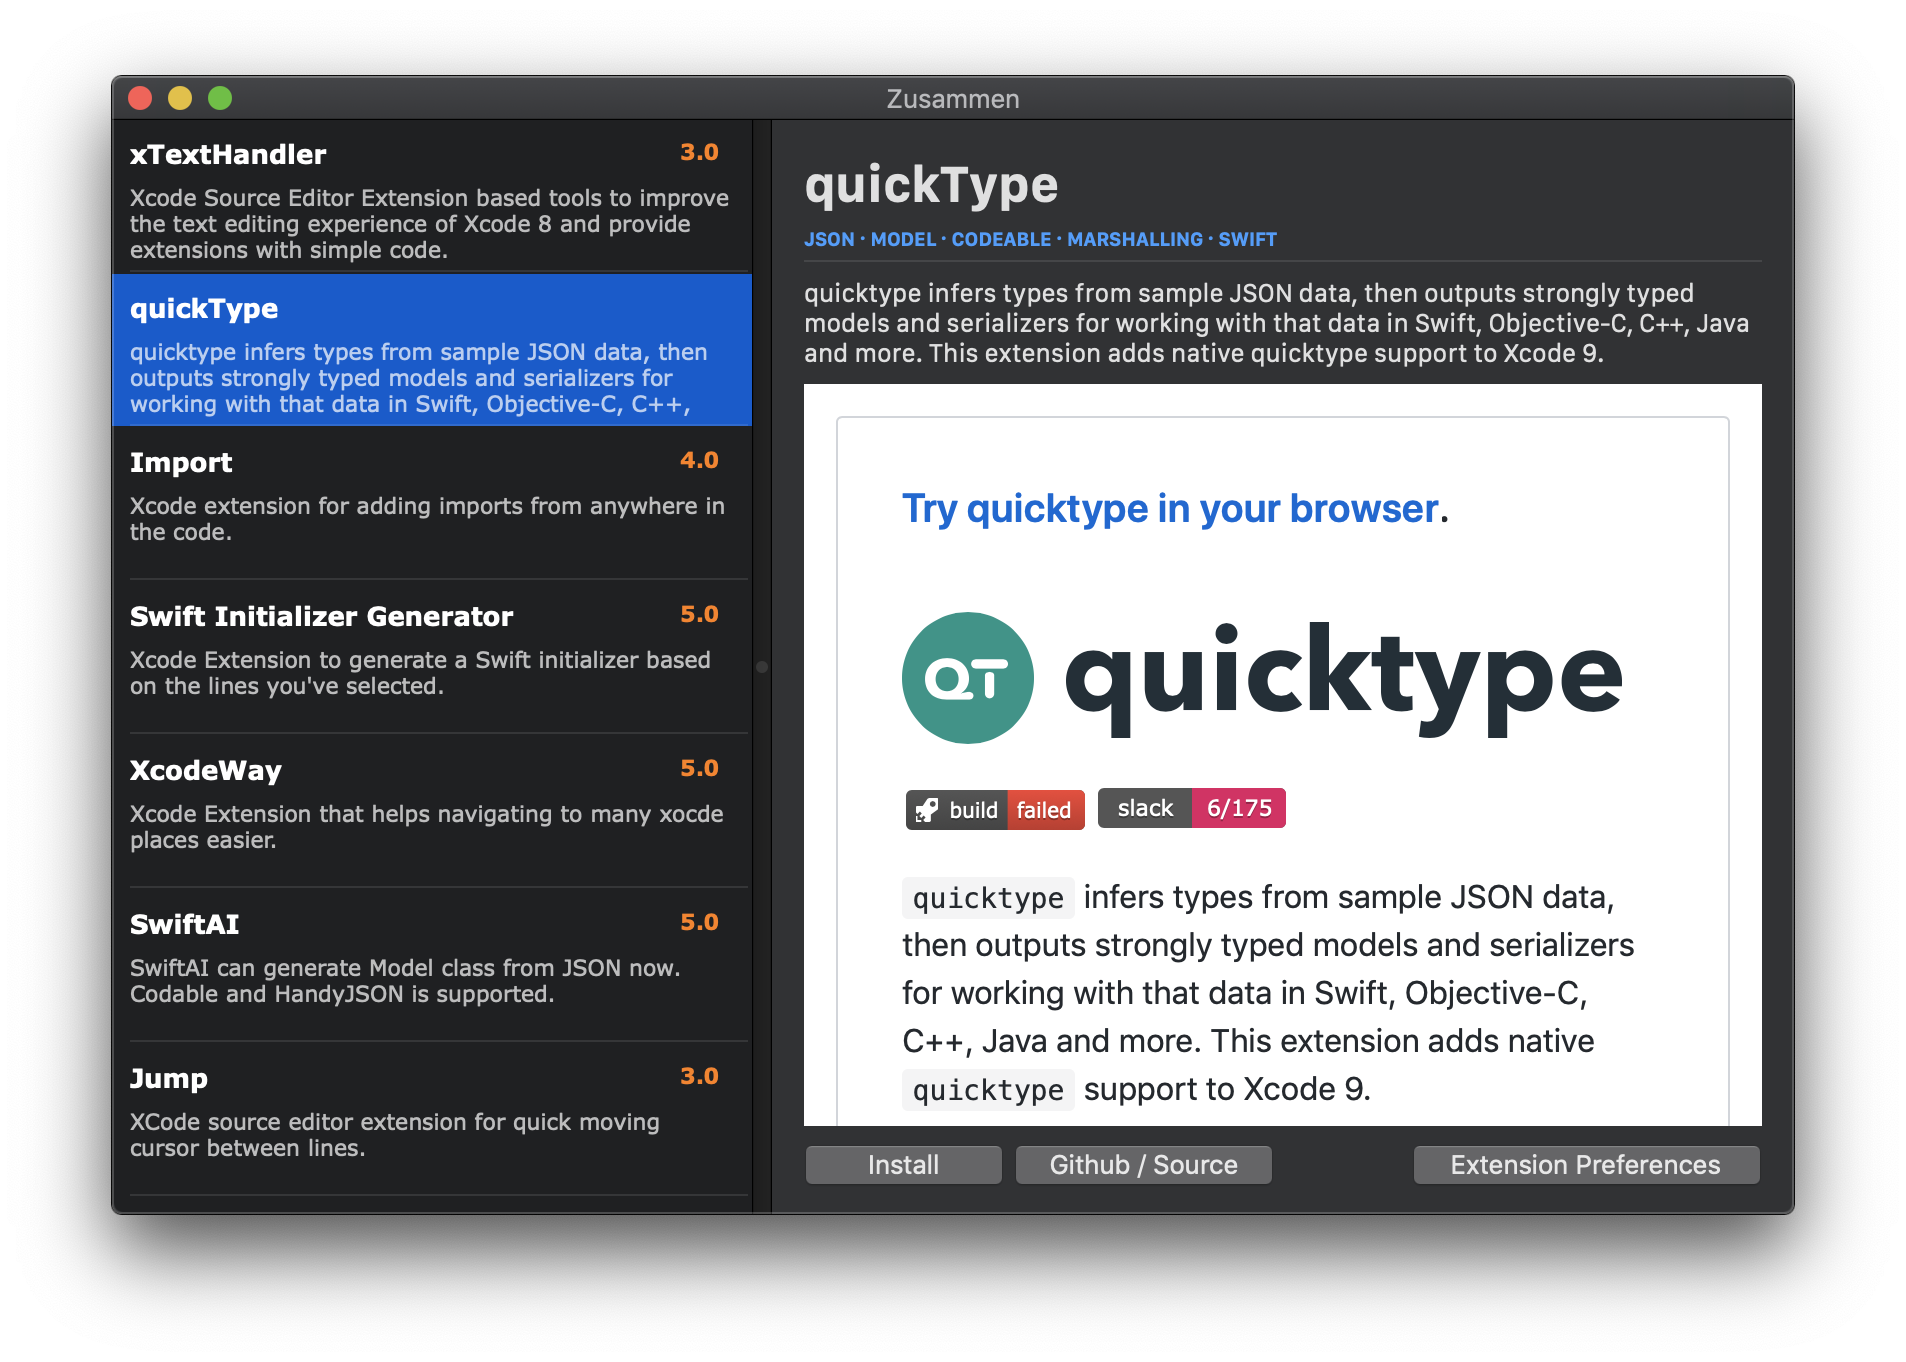
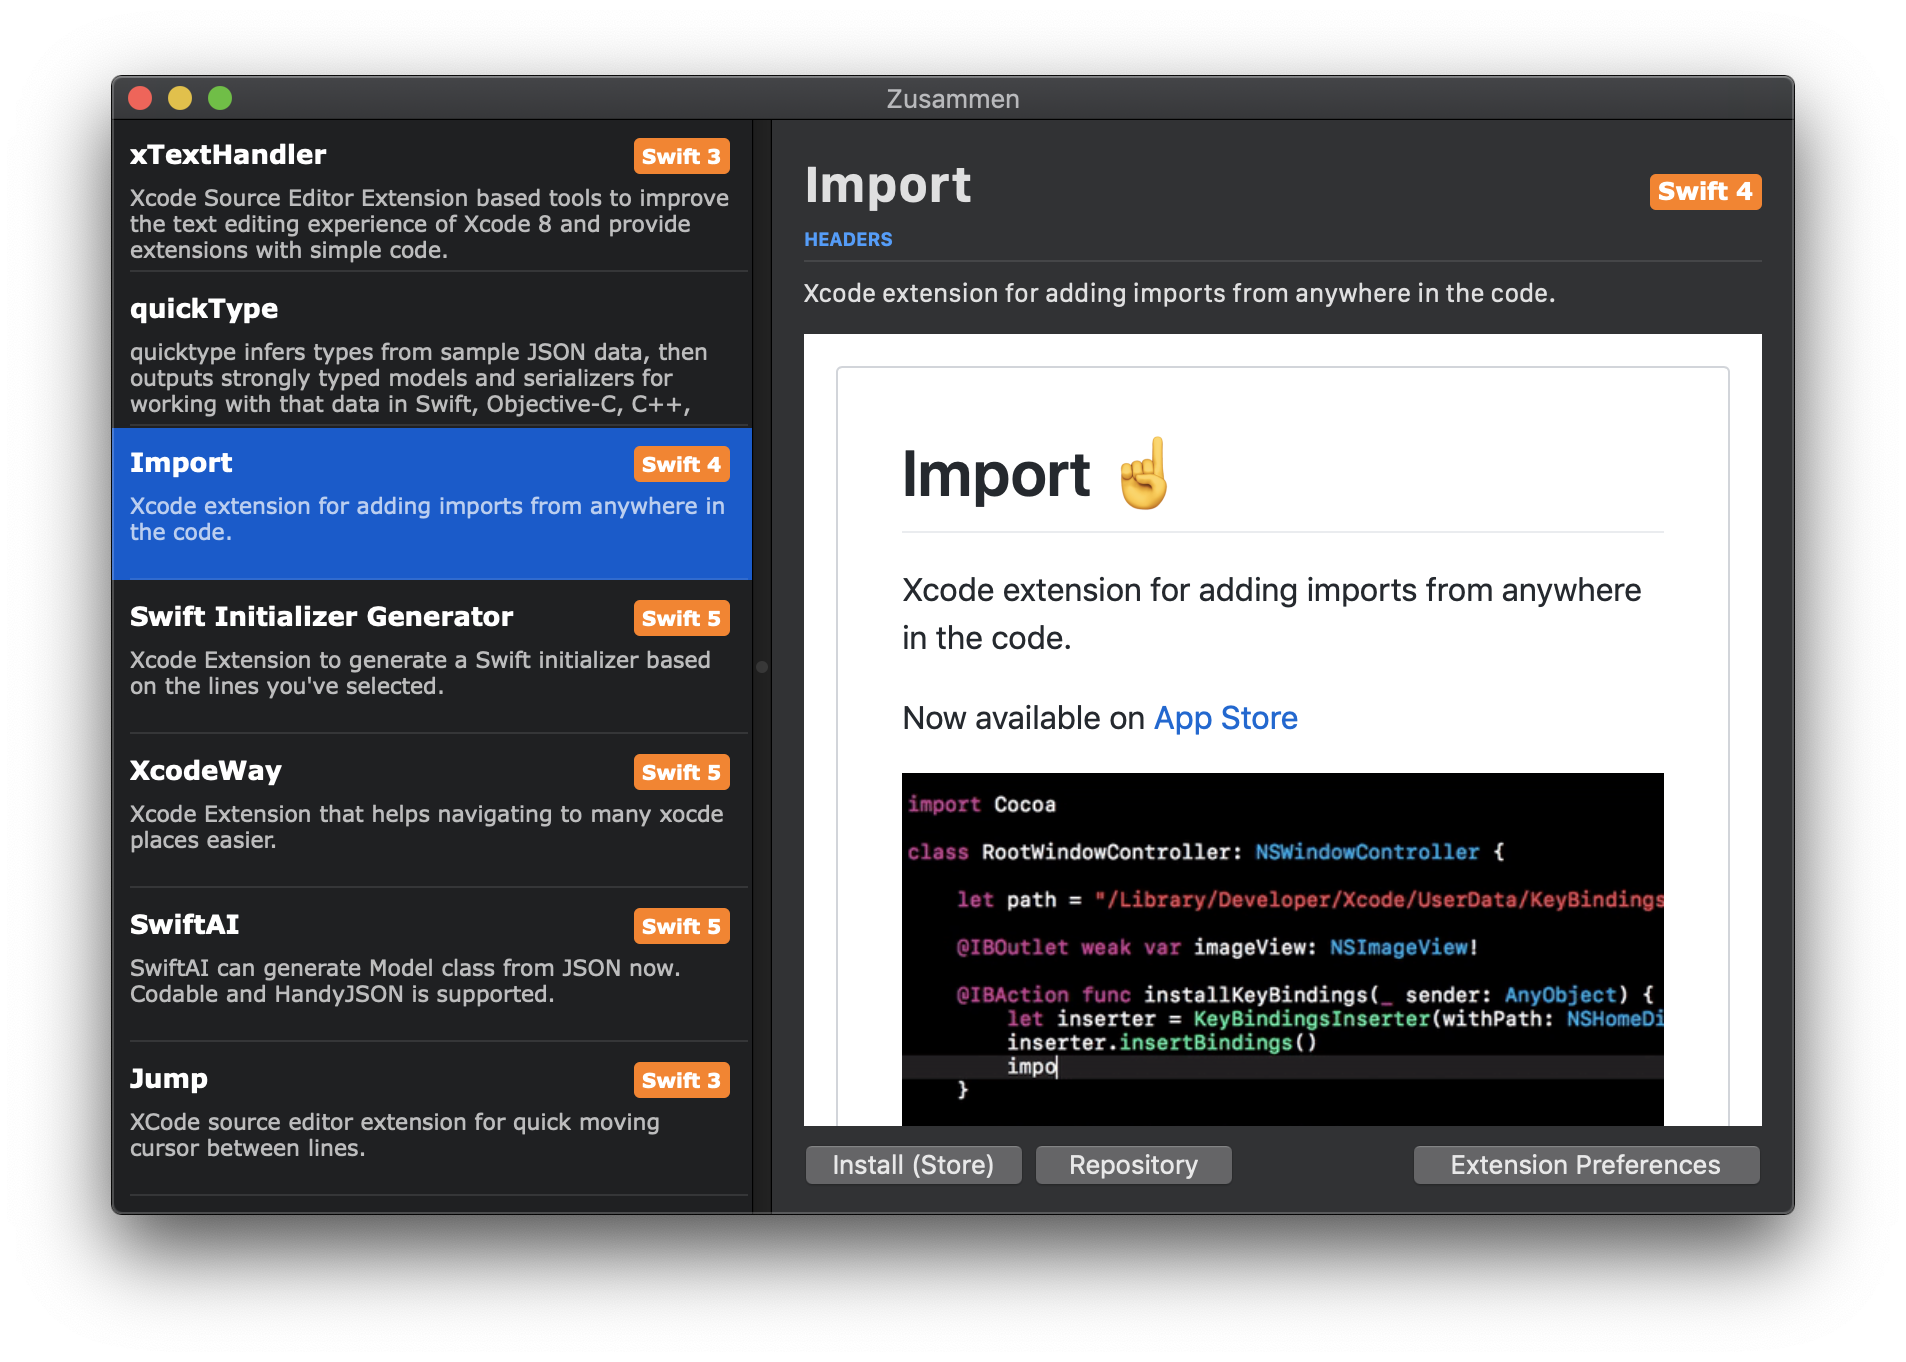
feat: add extension installer

diff --git a/Zusammen/UI/ExtensionContentView.swift b/Zusammen/UI/ExtensionContentView.swift
@@ -9,6 +9,7 @@
 import Cocoa
 import Foundation
 import WebKit
+import Alamofire
 
 class ExtensionContentView: NSView {
     @IBOutlet var titleLabel: NSTextField!
@@ -71,6 +72,10 @@ class ExtensionContentView: NSView {
         
         if currentExtension.installationType == .appleStore {
            installButton.title = "Install (Store)"
+        } else if currentExtension.installationType == .githubSource {
+            installButton.title = "Install (Xcode Project)"
+        }else if currentExtension.installationType == .githubRelease {
+            installButton.title = "Install (Download Ext.)"
         } else {
             installButton.title = "Install"
         }
@@ -123,12 +128,75 @@ class ExtensionContentView: NSView {
     ///
     /// - Parameter _: Button
     @IBAction func installAction(_: Any) {
-        if currentExtension?.installationType == .appleStore {
-            let url = URL(string: currentExtension!.downloadUrl!)!
-            NSWorkspace.shared.open(url)
+        
+        // If there is no download URL then we cannot do much about it.
+        guard let downloadPath = currentExtension?.downloadUrl,
+              let downloadURL = URL(string: downloadPath) else {
+            return
         }
-    }
+        
+        // Disable button to stop multiple download actions to be triggered at once.
+        self.installButton.isEnabled = false
+        
+        // We need a name and path for the temp folder for the extenstion.
+        let folderName = currentExtension!.name.replacingOccurrences(of: " ", with: "")
+        let tempFolderPath = "\(Constants.tempFolderPath)\(folderName)"
+        
+        // Clear if this folder already exists so that we do not have duplicate item problem.
+        FileHelper.clearFolder(folderPath: tempFolderPath)
+        
+        if currentExtension?.installationType == .appleStore {
+            // Open the app store page on the browser, since apps might not be in the country of the user.
+            // We do not have a sure shot way to show it in the app store app.
+            NSWorkspace.shared.open(downloadURL)
+            self.installButton.isEnabled = true
 
+        } else  if currentExtension?.installationType == .githubSource {
+            // Currently we are just cloning the github repo and opening the folder in finder for the user.
+            // Installation directly is tricky as we will need to know and have the build system
+            let input = "git clone \(downloadPath) '\(tempFolderPath)'"
+            let _ = input.runAsCommand()
+            NSWorkspace.shared.openFile(tempFolderPath)
+            self.installButton.isEnabled = true
+
+        } else if currentExtension?.installationType == .githubRelease {
+
+            let fileName = downloadURL.lastPathComponent
+            FileHelper.downloadFile(fileURL: downloadURL, destination: tempFolderPath, fileName: fileName) { (successful, errorMessage) in
+                if successful {
+                    let input = "unzip -o '\(tempFolderPath)/\(fileName)' -d ~/Applications/"
+                    let output = input.runAsCommand()
+                    print(output)
+                    let appName = fileName.components(separatedBy: ".").first!
+                    NSWorkspace.shared.launchApplication(appName)
+                    NSWorkspace.shared.openFile("~/Applications/")
+                    DispatchQueue.main.async {
+                        let alert: NSAlert = NSAlert()
+                        alert.messageText = "The application has been installed, enable the extensions in the system preference."
+                        alert.alertStyle = .informational
+                        alert.addButton(withTitle: "Close")
+                        alert.addButton(withTitle: "Extensions Preferences")
+                        let alertResult = alert.runModal()
+                        if alertResult == .alertSecondButtonReturn {
+                            NSWorkspace.shared.open(URL(fileURLWithPath: "/System/Library/PreferencePanes/Extensions.prefPane"))
+                        }
+                    }
+                } else {
+                    DispatchQueue.main.async {
+                    let alert: NSAlert = NSAlert()
+                    alert.messageText = errorMessage ?? "The installation was not successful. Please open the source code webpage and install manually."
+                    alert.alertStyle = .warning
+                    let _ = alert.runModal()
+                    }
+                }
+                DispatchQueue.main.async {
+                    self.installButton.isEnabled = true
+                }
+            }
+        }
+       
+        
+    }
     /// Open source file for the project (A URL on the source control repo).
     ///
     /// - Parameter _: Button
@@ -145,6 +213,7 @@ class ExtensionContentView: NSView {
     }
 }
 
+// Webview related functions grouped together in a single extension.
 extension ExtensionContentView: WKUIDelegate, WKNavigationDelegate {
     
     func webView(_ webView: WKWebView, didFinish _: WKNavigation!) {

diff --git a/Zusammen/Core/FileHelper.swift b/Zusammen/Core/FileHelper.swift
@@ -1,0 +1,75 @@
+//
+//  FileHelper.swift
+//  Zusammen
+//
+//  Created by Karthikeya Udupa on 28/08/2019.
+//  Copyright © 2019 Karthikeya Udupa. All rights reserved.
+//
+
+import Foundation
+
+/// A structure to store all kind of file system helper functions.
+struct FileHelper {
+    
+    /// Clear temporary folder with all the previously downloaded repositories and extensions.
+    static func clearTemporaryFolder() {
+        do {
+            try FileManager.default.removeItem(atPath: Constants.tempFolderPath)
+            print(" * Cleared the tmp folder for Zusammen.")
+        } catch {
+             print()
+            print(" * Error: Unable to file/clear the tmp folder for Zusammen - \(error.localizedDescription).")
+        }
+    }
+    
+    /// Clear the folder at the given location.
+    static func clearFolder(folderPath: String) {
+        do {
+            try FileManager.default.removeItem(atPath: folderPath)
+            print(" * Cleared the tmp folder at location \(folderPath).")
+        } catch {
+            print(" * Error: Unable to file/clear the tmp folder at  \(folderPath) - \(error.localizedDescription).")
+        }
+    }
+    
+    
+    static func downloadFile(fileURL: URL, destination: String, fileName: String, completion: @escaping (_ result: Bool, _ reason: String?)->()) {
+        let sessionConfig = URLSessionConfiguration.default
+        let session = URLSession(configuration: sessionConfig)
+        let request = URLRequest(url:fileURL)
+        
+        let task = session.downloadTask(with: request) { (tempLocalUrl, response, error) in
+            if let tempLocalUrl = tempLocalUrl, error == nil {
+                // Successfully downloaded the request.
+                if let statusCode = (response as? HTTPURLResponse)?.statusCode {
+                    print(" * Successfully downloaded (\(fileURL)) Status code: \(statusCode)")
+                }
+                
+                // We will need to create the directory if it does not exist.
+                do {
+                    try FileManager.default.createDirectory(at: URL.init(fileURLWithPath: destination), withIntermediateDirectories: true, attributes: nil)
+                } catch {
+                    print(" * Error creating folder at the new location, probably already exists.")
+                }
+                
+                // Now move the temporary file to the folder in the zusammen temp folder.
+                do {
+                    let destinationFilePath = "\(destination)/\(fileName)"
+                    try FileManager.default.copyItem(atPath: tempLocalUrl.path, toPath: destinationFilePath)
+                    completion(true, nil)
+                } catch {
+                    print(" * Error creating file at the new location.")
+                    completion(false, "Error creating file at the new location.")
+                }
+                
+            } else {
+                print(" * Error took place while downloading a file.")
+                completion(false, "Error took place while downloading a file.")
+            }
+        }
+        task.resume()
+        
+    }
+
+    
+}

diff --git a/Zusammen/UI/InstallerViewController.swift b/Zusammen/UI/InstallerViewController.swift
@@ -1,0 +1,39 @@
+//
+//  InstallerViewController.swift
+//  Zusammen
+//
+//  Created by Karthikeya Udupa on 27/08/2019.
+//  Copyright © 2019 Karthikeya Udupa. All rights reserved.
+//
+
+import Foundation
+import Cocoa
+
+//class InstallerViewController: NSViewController {
+//    @IBOutlet var installerTextView: NSTextView!
+//    let installationType: InstallationType
+//    let sourcePath: String
+//    let extensionName: String
+//    
+//    init(installationType: InstallationType, sourcePath: String, extensionName: String) {
+//        super.init()
+//        self.installationType = installationType
+//        self.sourcePath = sourcePath
+//        self.extensionName = extensionName
+//    }
+//    
+//    required init?(coder: NSCoder) {
+//        super.init(coder: coder)
+//    }
+//    
+//    func runInstaller() {
+//        if installationType == .githubSource {
+//            // TODO: Add more steps to install the extension on your own.
+//            let folderName = self.extensionName.replacingOccurrences(of: " ", with: "")
+//            let input = "git clone \(self.sourcePath) '\(Constants.tempFolderPath)\(folderName)'"
+//            let output = input.runAsCommand()
+//            self.installerTextView.string = output
+//            NSWorkspace.shared.openFile("\(Constants.tempFolderPath)\(folderName)")
+//        }
+//    }
+//}

diff --git a/Zusammen/Core/StringExtensions.swift b/Zusammen/Core/StringExtensions.swift
@@ -1,0 +1,33 @@
+//
+//  StringExtensions.swift
+//  Zusammen
+//
+//  Created by Karthikeya Udupa on 27/08/2019.
+//  Copyright © 2019 Karthikeya Udupa. All rights reserved.
+//
+
+import Foundation
+
+extension String {
+    
+    /// Runs the string as a command on the shell.
+    ///
+    /// - returns: Response from the stdout after running the command.
+    func runAsCommand() -> String {
+        let pipe = Pipe()
+        let task = Process()
+        task.launchPath = "/bin/sh"
+        task.arguments = ["-c", String(format:"%@", self)]
+        task.standardOutput = pipe
+        let file = pipe.fileHandleForReading
+        task.launch()
+        if let result = NSString(data: file.readDataToEndOfFile(), encoding: String.Encoding.utf8.rawValue) {
+            return result as String
+        }
+        else {
+            let errorString = " * Error running command - Unable to initialize string from file data."
+            print(errorString)
+            return errorString
+        }
+    }
+}

diff --git a/Zusammen/Core/Constants.swift b/Zusammen/Core/Constants.swift
@@ -1,0 +1,15 @@
+//
+//  Constants.swift
+//  Zusammen
+//
+//  Created by Karthikeya Udupa on 28/08/2019.
+//  Copyright © 2019 Karthikeya Udupa. All rights reserved.
+//
+
+import Foundation
+
+struct Constants {
+
+    // Temporary folder where we will be storing cloned repository and downloaded extensions.
+    static let tempFolderPath = "/tmp/zusammen/"
+}

diff --git a/Zusammen/UI/ExtensionCell.swift b/Zusammen/UI/ExtensionCell.swift
@@ -10,7 +10,7 @@ import Cocoa
 import Foundation
 import QuartzCore
 
-/// Tableview cell to show information about the sensor.
+/// NSTableCellView to show information about the sensor.
 class ExtensionCell: NSTableCellView {
     static var identifier = NSUserInterfaceItemIdentifier(rawValue: "extensionCellIdentifier")
     static var height = 75

diff --git a/Zusammen/Support/AppDelegate.swift b/Zusammen/Support/AppDelegate.swift
@@ -10,6 +10,12 @@ import Cocoa
 
 @NSApplicationMain
 class AppDelegate: NSObject, NSApplicationDelegate {
-    func applicationDidFinishLaunching(_: Notification) {}
+
+    func applicationDidFinishLaunching(_: Notification) {
+       FileHelper.clearTemporaryFolder()
+    }
+
     func applicationWillTerminate(_: Notification) {}
+    
+    
 }

diff --git a/Zusammen/UI/ExtensionsListViewController.swift b/Zusammen/UI/ExtensionsListViewController.swift
@@ -11,6 +11,7 @@ import WebKit
 
 class ExtensionsListViewController: NSViewController, WKUIDelegate, WKNavigationDelegate {
     @IBOutlet var extensionContentView: ExtensionContentView!
+    @IBOutlet var extensionListTableView: NSTableView!
 
     var extensionsList: ExtensionList?
     public var currentExtension: Extension? {

diff --git a/README.md b/README.md
@@ -15,6 +15,7 @@
 - [ ] Provide a way to filter the extensions either by search or by Swift version number.
 - [ ] Handle links from the web-view to open in a browser.
 - [ ] CI integration and release 1.0.0.
+- [ ] Try to install only if Xcode/Swift version matches the code version.
 
 ### Contributions and Requests
 
